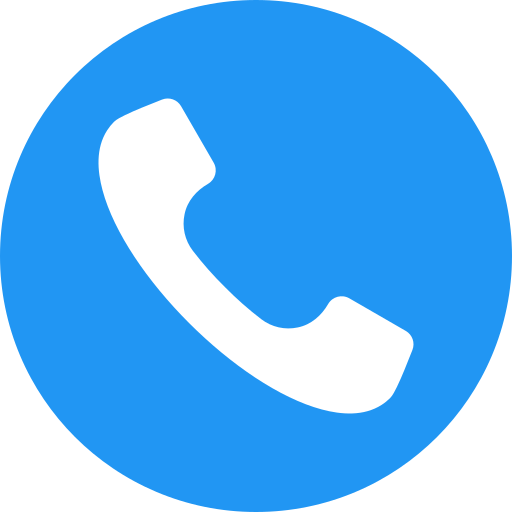
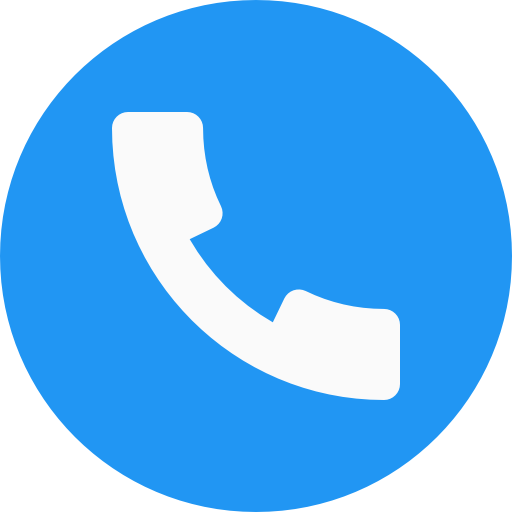
contactUS

diff --git a/src/modules/home/contact.js b/src/modules/home/contact.js
@@ -1,0 +1,48 @@
+import React from 'react'
+import Image from 'next/image'
+import callImg from '@/assets/contactus/call.png'
+import locImg from '@/assets/contactus/location.png'
+import mailImg from '@/assets/contactus/mail.png'
+import lineImg from '@/assets/contactus/line.png'
+
+const Contact = () => {
+    return (
+
+        <div>
+        <div className='lg:text-xl text-center'>
+            CONTACT US
+        </div>
+        <div className="text-4xl font-extrabold tracking-tight lg:text-5xl text-center">
+            Have any queries or suggestions? Get in touch with us.
+        </div>
+        <div className="grid grid-cols-1 sm:grid-cols-3 gap-8 mt-10 justify-center">
+            <div className="flex flex-col items-center text-center">
+                <Image src={locImg} className='h-9 w-9' />
+                <div className='mt-3'>
+                    <p className="text-gray-500">LTCE, koparkhairane, Maharashtra, India</p>
+                    <p className="text-gray-500">400705</p>
+                </div>
+            </div>
+    
+            <div className="flex flex-col">
+                <Image src={callImg} className='h-10 w-10' />
+                <div className='mt-3'>
+                    <a className='text-gray-500 ' href="tel:+91 9372179120">+91 93721 79120</a>
+                    <br />
+                    <a className='text-gray-500' href="tel:+91 99695 96965">+91 99695 96965</a>
+                </div>
+            </div>
+    
+            <div className="flex flex-col items-center text-center">
+                <Image src={mailImg} className='h-10 w-10' />
+                <div className='mt-3'>
+                    <a className='text-gray-500' href="mailto:techvidya1905@gmail.com">techvidya1905@gmail.com</a>
+                </div>
+            </div>
+        </div>
+    </div>
+    
+    )
+}
+
+export default Contact

diff --git a/src/modules/home/index.js b/src/modules/home/index.js
@@ -8,6 +8,7 @@ import RecentEvents from "./recentEvent";
 import OurGoal from "./ourGoal";
 import { Company } from "@/components/marqeecomp";
 import { TestMarquee } from "./testmonialMarquee";
+import Contact from "./contact";
 
 const HeroComponent = dynamic(() => import("@/components/hero/heroComponent"), {
   ssr: false,
@@ -33,6 +34,7 @@ export default function Home() {
         </div>  
         {/* <Testimonials /> */}
         <Stats />
+        <Contact />
       </div>
 
     </div>
